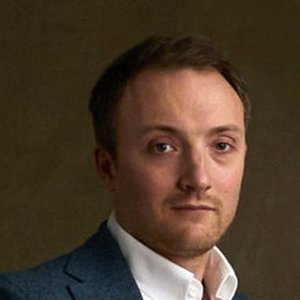
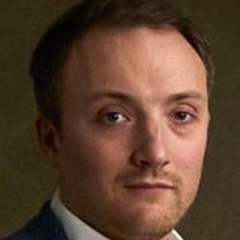
Livre v3 : couverture 3D, soulignements, photos recentrées, tag Amazon, plus de lien Squarespace

diff --git a/src/pages/Livre.tsx b/src/pages/Livre.tsx
@@ -1,17 +1,17 @@
 import { useState } from "react";
-import { A, PDF, useSeo, Reveal, CtaBand, Scribble } from "../lib";
-const AMZ = "https://www.amazon.fr/dp/2212572018", KINDLE = "https://www.amazon.fr/dp/B07PFLM9HD";
+import { A, PDF, useSeo, Reveal, CtaBand, Scribble, Hl, AMAZON as AMZ, KINDLE, amzRel } from "../lib";
+import { Book3D } from "../Book3D";
 const buy = [
-  { n: "Amazon", f: "Broché", u: AMZ }, { n: "Amazon", f: "Kindle", u: KINDLE },
+  { n: "Amazon", f: "Broché", u: AMZ, a: true }, { n: "Amazon", f: "Kindle", u: KINDLE, a: true },
   { n: "Fnac", f: "Broché", u: "https://www.fnac.com/a13185949/Onur-Karapinar-Petites-habitudes-grandes-reussites" },
   { n: "Decitre", f: "Broché", u: "https://www.decitre.fr/livres/petites-habitudes-grandes-reussites-9782212572018.html" },
   { n: "Éditions Eyrolles", f: "Broché", u: "https://www.editions-eyrolles.com/livre/petites-habitudes-grandes-reussites" },
   { n: "Audible", f: "Livre audio, 8 h 32", u: "https://www.audible.fr/pd/B08F5JK48R" },
 ];
 const recos = [
-  { n: "Matthieu Dardaillon", r: "entrepreneur, cofondateur de Ticket for Change", f: "matthieu-dardaillon", q: "Onur Karapinar nous offre un livre indispensable - complet, clair, prêt à l'emploi - pour prendre ou reprendre le pouvoir sur nos vies." },
-  { n: "Olivier Roland", r: "entrepreneur et auteur", f: "olivier-roland", q: "Remplacer les mauvaises habitudes par les bonnes est essentiel pour réussir dans la vie, personnellement et professionnellement. Ce livre est parfait pour cela." },
-  { n: "Benoît Wojtenka", r: "cofondateur de BonneGueule, préfacier", f: "benoit-wojtenka", q: "Changer ses habitudes, c'est changer sa vie. Et c'est ce qu'Onur va vous apprendre dans ce livre, un indispensable pour tous ceux qui veulent atteindre intelligemment leurs objectifs." },
+  { n: "Matthieu Dardaillon", r: "entrepreneur, cofondateur de Ticket for Change", f: "matthieu-dardaillon", q: "Onur Karapinar nous offre **un livre indispensable** - complet, clair, prêt à l'emploi - pour prendre ou reprendre le pouvoir sur nos vies." },
+  { n: "Olivier Roland", r: "entrepreneur et auteur", f: "olivier-roland", q: "Remplacer les mauvaises habitudes par les bonnes est essentiel pour réussir dans la vie, personnellement et professionnellement. **Ce livre est parfait pour cela.**" },
+  { n: "Benoît Wojtenka", r: "cofondateur de BonneGueule, préfacier", f: "benoit-wojtenka", q: "**Changer ses habitudes, c'est changer sa vie.** Et c'est ce qu'Onur va vous apprendre dans ce livre, un indispensable pour tous ceux qui veulent atteindre intelligemment leurs objectifs." },
 ];
 const learn = [
   ["Comprendre ton cerveau", "Pourquoi il crée des habitudes, la boucle des habitudes, et pourquoi compter sur la motivation ne marche pas."],
@@ -37,16 +37,16 @@ const parts = [
   ["Partie IV", "51 habitudes pour devenir la meilleure version de toi-même", ["14 habitudes productives", "11 habitudes santé", "18 habitudes de développement personnel", "8 habitudes sociales"]],
 ];
 const reviews = [
-  { a: "Agnès L.", d: "14 avril 2020", s: 5, q: "J'ai dévoré de A à Z le livre \"Petites habitudes, grandes réussites\" car il est très facile à lire, à comprendre et à mettre en pratique." },
-  { a: "Arnaud M", d: "4 août 2019", s: 5, q: "Ce livre n'est ni une histoire passionnante, ni une innovation extraordinaire. En revanche, je pense que c'est une mine d'or pour toute personne voulant améliorer sa vie." },
-  { a: "Veyrat Marine", d: "23 août 2019", s: 5, q: "Chaque habitude est présentée de manière très pédagogique, en exposant ses bienfaits et des conseils de mise en application immédiate." },
+  { a: "Agnès L.", d: "14 avril 2020", s: 5, q: "J'ai dévoré de A à Z le livre \"Petites habitudes, grandes réussites\" car il est **très facile à lire, à comprendre et à mettre en pratique**." },
+  { a: "Arnaud M", d: "4 août 2019", s: 5, q: "Ce livre n'est ni une histoire passionnante, ni une innovation extraordinaire. En revanche, je pense que c'est **une mine d'or** pour toute personne voulant améliorer sa vie." },
+  { a: "Veyrat Marine", d: "23 août 2019", s: 5, q: "Chaque habitude est présentée de manière très pédagogique, en exposant ses bienfaits et des **conseils de mise en application immédiate**." },
 ];
 const faq = [
   ["C'est pour qui ?", "Pour toi si tu veux prendre de bonnes habitudes, te défaire de celles qui te coûtent, ou si tu veux changer sans savoir par où commencer."],
   ["Faut-il le lire dans l'ordre ?", "Les trois premières parties posent la méthode, mieux vaut les lire d'abord. Les 51 habitudes de la partie IV se piochent ensuite selon tes envies."],
   ["Il y a de la théorie ?", "Un peu, juste ce qu'il faut. La première partie explique la science du comportement. Le reste est un manuel pratique."],
   ["Il existe en numérique et en audio ?", "Oui : broché, Kindle et livre audio (8 h 32, lu par Nicolas Djermag)."],
-  ["Je peux le feuilleter avant ?", "Oui, les 27 premières pages sont en accès libre, sans e-mail."],
+  ["Je peux le feuilleter avant ?", PDF ? "Oui, les 27 premières pages sont en accès libre, sans e-mail." : "Oui, avec la fonction « Feuilleter » de la page Amazon."],
 ];
 const Stars = ({ n = 4.5 }) => <span aria-hidden="true" className="text-terral">{"★★★★★".slice(0, Math.floor(n))}{n % 1 ? <span style={{ background: "linear-gradient(90deg,#D96A4E 50%,#E8E2D6 50%)", WebkitBackgroundClip: "text", color: "transparent" }}>★</span> : null}</span>;
 export default function Livre() {
@@ -55,18 +55,18 @@ export default function Livre() {
   const toBuy = () => document.getElementById("acheter")?.scrollIntoView({ behavior: "smooth" });
   return (<div className="pb-20 md:pb-0">
     <section className="mx-auto grid max-w-6xl items-center gap-10 px-5 py-14 md:grid-cols-[.7fr_1.3fr] md:py-20">
-      <Reveal><img src={`${A}/livre-couverture.jpg`} alt="Couverture du livre Petites habitudes, grandes réussites" width="288" height="420" className="mx-auto w-56 -rotate-2 rounded shadow-2xl md:w-72"/></Reveal>
+      <Reveal><Book3D src={`${A}/livre-couverture.jpg`}/></Reveal>
       <Reveal delay={100}><div className="flex items-center gap-2"><Stars/><span className="text-sm text-ink/70">4,5 sur 5, 364 évaluations Amazon</span></div>
         <h1 className="mt-3 text-4xl font-extrabold leading-tight tracking-tight md:text-5xl">Tu sais ce qu'il faudrait changer. Ce livre t'aide à le faire, <Scribble>enfin</Scribble>.</h1>
         <p className="mt-4 text-lg text-ink/80">51 habitudes concrètes et une méthode pour les installer, une petite étape à la fois. Pas de bain glacé, pas de réveil à 5 h obligatoire.</p>
-        <div className="mt-7 flex flex-wrap gap-3"><button onClick={toBuy} className="btn">Commander le livre</button><a href={PDF} className="btn-ghost">Lire les 27 premières pages</a></div>
+        <div className="mt-7 flex flex-wrap gap-3"><button onClick={toBuy} className="btn">Commander le livre</button><a href={PDF || AMZ} rel={PDF ? undefined : amzRel} className="btn-ghost">{PDF ? "Lire les 27 premières pages" : "Feuilleter le début"}</a></div>
         <p className="mt-3 text-sm text-ink/60">Eyrolles, 2019 · 310 pages · broché, Kindle et audio · préface de Benoît Wojtenka</p></Reveal>
     </section>
     <section className="border-y border-sable bg-white"><div className="mx-auto grid max-w-5xl grid-cols-2 gap-6 px-5 py-10 text-center md:grid-cols-4">
       {[["15 000+", "exemplaires vendus"], ["4,5 / 5", "sur 364 avis Amazon"], ["66 %", "d'avis 5 étoiles"], ["3 ans", "de recherche et d'écriture"]].map(([a, b], i) => <Reveal key={b} delay={i * 80}><div className="font-display text-3xl font-extrabold text-ink">{a}</div><div className="text-sm text-ink/70">{b}</div></Reveal>)}
     </div></section>
     <section className="mx-auto max-w-6xl px-5 py-20"><Reveal><div className="kicker">Ils l'ont lu avant toi</div><h2 className="h2 mt-3">Mot pour mot, en quatrième de couverture.</h2></Reveal>
-      <div className="mt-10 grid gap-6 md:grid-cols-3">{recos.map((r, i) => <Reveal key={r.n} delay={i * 100}><figure className="card h-full p-6"><blockquote>« {r.q} »</blockquote><figcaption className="mt-5 flex items-center gap-3"><img src={`${A}/reco-${r.f}.jpg`} alt={`Photo de ${r.n}`} width="48" height="48" loading="lazy" className="h-12 w-12 rounded-full object-cover"/><span className="text-sm"><b>{r.n}</b><br/><span className="text-ink/60">{r.r}</span></span></figcaption></figure></Reveal>)}</div>
+      <div className="mt-10 grid gap-6 md:grid-cols-3">{recos.map((r, i) => <Reveal key={r.n} delay={i * 100}><figure className="card h-full p-6"><blockquote>« <Hl t={r.q}/> »</blockquote><figcaption className="mt-5 flex items-center gap-3"><img src={`${A}/reco-${r.f}.jpg`} alt={`Photo de ${r.n}`} width="48" height="48" loading="lazy" className="h-12 w-12 rounded-full object-cover"/><span className="text-sm"><b>{r.n}</b><br/><span className="text-ink/60">{r.r}</span></span></figcaption></figure></Reveal>)}</div>
     </section>
     <section className="bg-pale"><div className="mx-auto max-w-3xl px-5 py-20"><Reveal><div className="kicker">Le vrai problème</div><h2 className="h2 mt-3">Le problème n'est pas ta motivation.</h2>
       <p className="mt-5 text-lg text-ink/85">Tu as déjà commencé une routine un lundi. Mercredi, elle avait disparu. Ce n'est pas un manque de volonté : ce sont tes stratégies qui ne marchent pas. Ce livre te donne celles qui marchent, et découpe chaque bonne habitude en un geste assez petit pour tenir dans une vraie journée.</p></Reveal></div></section>
@@ -79,23 +79,23 @@ export default function Livre() {
       <div className="mt-8 space-y-3">{parts.map(([k, t, items], i) => <div key={k as string} className="rounded-2xl border border-sable bg-white"><button aria-expanded={open === i} onClick={() => setOpen(open === i ? null : i)} className="flex min-h-[56px] w-full items-center justify-between gap-4 p-5 text-left"><span><span className="text-sm font-bold text-terra">{k}</span><br/><span className="font-bold">{t}</span></span><span aria-hidden="true" className="text-2xl text-terra">{open === i ? "−" : "+"}</span></button>
         {open === i && <ul className="space-y-2 px-5 pb-5 text-[15px] text-ink/80">{(items as string[]).map(x => <li key={x} className="flex gap-3"><span className="mt-2 h-1.5 w-1.5 shrink-0 rounded-full bg-terral"/>{x}</li>)}</ul>}</div>)}</div>
     </div></section>
-    <section className="mx-auto max-w-3xl px-5 py-20 text-center"><Reveal><div className="kicker">Gratuit, sans e-mail</div><h2 className="h2 mt-3">Lis les 27 premières pages.</h2>
+    <section className="mx-auto max-w-3xl px-5 py-20 text-center"><Reveal><div className="kicker">Gratuit, sans e-mail</div><h2 className="h2 mt-3">{PDF ? "Lis les 27 premières pages." : "Feuillette le début."}</h2>
       <p className="mt-4 text-ink/80">Pas envie d'acheter un livre sur la foi d'une page web ? Moi non plus. Feuillette le début. Si tu te surprends à souligner une phrase, tu sais ce qu'il te reste à faire.</p>
-      <a href={PDF} className="btn mt-7">Lire l'extrait (PDF)</a></Reveal></section>
+      <a href={PDF || AMZ} rel={PDF ? undefined : amzRel} className="btn mt-7">{PDF ? "Lire l'extrait (PDF)" : "Feuilleter sur Amazon"}</a></Reveal></section>
     <section className="bg-pale"><div className="mx-auto max-w-5xl px-5 py-20"><Reveal><div className="kicker">Avis Amazon.fr, achats vérifiés</div><h2 className="h2 mt-3">Ce qu'en disent les lecteurs.</h2></Reveal>
-      <div className="mt-8 grid gap-6 md:grid-cols-3">{reviews.map((r, i) => <Reveal key={r.a} delay={i * 100}><figure className="card h-full p-6"><Stars n={r.s}/><blockquote className="mt-3">« {r.q} »</blockquote><figcaption className="mt-4 text-sm text-ink/60"><b className="text-ink">{r.a}</b>, Amazon.fr, {r.d}</figcaption></figure></Reveal>)}</div>
+      <div className="mt-8 grid gap-6 md:grid-cols-3">{reviews.map((r, i) => <Reveal key={r.a} delay={i * 100}><figure className="card h-full p-6"><Stars n={r.s}/><blockquote className="mt-3">« <Hl t={r.q}/> »</blockquote><figcaption className="mt-4 text-sm text-ink/60"><b className="text-ink">{r.a}</b>, Amazon.fr, {r.d}</figcaption></figure></Reveal>)}</div>
       <a href={AMZ + "#customerReviews"} className="mt-6 inline-flex min-h-[44px] items-center font-bold text-terra underline underline-offset-4">Lire les 364 avis sur Amazon</a>
     </div></section>
     <section className="mx-auto grid max-w-5xl items-center gap-10 px-5 py-20 md:grid-cols-[.6fr_1.4fr]"><Reveal><img src={`${A}/portrait-studio.webp`} alt="Portrait d'Onur Karapinar" width="640" height="640" loading="lazy" className="mx-auto w-full max-w-[260px] rotate-2 rounded-3xl shadow-xl"/></Reveal>
       <Reveal delay={100}><div className="kicker">L'auteur</div><h2 className="h2 mt-3">Qui l'a écrit.</h2>
         <p className="mt-4 text-ink/85">Je m'appelle Onur. Avant d'écrire sur l'IA, j'ai écrit sur les habitudes. Ce livre est le fruit de trois ans de recherche et d'écriture, et de beaucoup de tests sur moi, ratés compris. Ce qui marchait tenait toujours en un geste minuscule, répété. Aujourd'hui, j'applique la même idée à l'IA dans ma newsletter.</p></Reveal></section>
     <section id="acheter" className="scroll-mt-20 bg-ink text-creme"><div className="mx-auto max-w-5xl px-5 py-20"><Reveal><div className="kicker !text-pale">Où l'acheter</div><h2 className="h2 mt-3">Choisis ton format.</h2></Reveal>
-      <div className="mt-8 grid gap-4 sm:grid-cols-2 lg:grid-cols-3">{buy.map(b => <a key={b.n + b.f} href={b.u} target="_blank" rel="noopener" className="flex min-h-[72px] items-center justify-between rounded-2xl border border-creme/20 p-5 transition hover:border-terral hover:bg-creme/5"><span><b>{b.n}</b><br/><span className="text-sm text-creme/70">{b.f}</span></span><span className="text-terral">→</span></a>)}</div>
-      <p className="mt-6 text-sm text-creme/60">Ou chez ton libraire : ISBN 978-2-212-57201-8.</p></div></section>
+      <div className="mt-8 grid gap-4 sm:grid-cols-2 lg:grid-cols-3">{buy.map((b: any) => <a key={b.n + b.f} href={b.u} target="_blank" rel={b.a ? amzRel : "noopener"} className="flex min-h-[72px] items-center justify-between rounded-2xl border border-creme/20 p-5 transition hover:border-terral hover:bg-creme/5"><span><b>{b.n}</b><br/><span className="text-sm text-creme/70">{b.f}</span></span><span className="text-terral">→</span></a>)}</div>
+      <p className="mt-6 text-sm text-creme/60">Ou chez ton libraire : ISBN 978-2-212-57201-8. Les liens Amazon sont affiliés : si tu achètes via ces liens, je touche une petite commission, sans surcoût pour toi.</p></div></section>
     <section className="mx-auto max-w-3xl px-5 py-20"><Reveal><div className="kicker">Questions fréquentes</div><h2 className="h2 mt-3">Avant de te lancer.</h2></Reveal>
       <div className="mt-8 divide-y divide-sable">{faq.map(([q, a]) => <details key={q} className="group py-4"><summary className="flex min-h-[44px] cursor-pointer list-none items-center justify-between font-bold">{q}<span aria-hidden="true" className="text-terra group-open:rotate-45 transition">+</span></summary><p className="mt-2 text-ink/80">{a}</p></details>)}</div></section>
     <section className="bg-pale"><div className="mx-auto max-w-3xl px-5 py-20 text-center"><Reveal><h2 className="h2">Un petit geste ce soir. Un grand changement dans six mois.</h2>
-      <div className="mt-8 flex flex-wrap justify-center gap-3"><button onClick={toBuy} className="btn">Commander le livre</button><a href={PDF} className="btn-ghost">Lire l'extrait</a></div></Reveal></div></section>
+      <div className="mt-8 flex flex-wrap justify-center gap-3"><button onClick={toBuy} className="btn">Commander le livre</button><a href={PDF || AMZ} rel={PDF ? undefined : amzRel} className="btn-ghost">{PDF ? "Lire l'extrait" : "Feuilleter le début"}</a></div></Reveal></div></section>
     <CtaBand title="Le livre parlait de petits gestes. L'IA, c'est pareil." text="Un guide de 10 minutes, une à deux fois par semaine. Gratuit."/>
     <div className="fixed inset-x-0 bottom-0 z-40 flex items-center justify-between gap-3 border-t border-sable bg-creme/95 px-4 py-3 backdrop-blur md:hidden"><span className="text-sm"><b>Le livre</b> · 4,5/5</span><button onClick={toBuy} className="btn !min-h-[44px] !px-5 !py-2 text-sm">Commander</button></div>
   </div>);

diff --git a/src/pages/Home.tsx b/src/pages/Home.tsx
@@ -1,5 +1,5 @@
 import { useState, useEffect } from "react"; import { Link } from "react-router-dom";
-import { Scribble, Arrow, A, SUB, AMAZON, PDF, useSeo, Reveal, SubscribeForm, Copy, Quote, Stats, CtaBand } from "../lib";
+import { Scribble, Arrow, A, SUB, AMAZON, PDF, amzRel, useSeo, Reveal, SubscribeForm, Copy, Quote, Stats, CtaBand } from "../lib";
 import { guides, GuideCard, fdate, img } from "../guides";
 import { tools, DISCLOSURE } from "../data/tools";
 import { ToolCard } from "./Outils";
@@ -83,12 +83,12 @@ export default function Home() {
     <section className="bg-pale"><div className="mx-auto max-w-6xl px-5 py-24">
       <Reveal><div className="kicker">Ce qu'en disent les lecteurs</div><h2 className="h2 mt-3">Recopié tel quel, fautes comprises.</h2></Reveal>
       <div className="mt-10 columns-1 gap-5 md:columns-2 lg:columns-3">
-        <Quote q="Depuis que je t'ai découvert (hier), j'ai créé 6 projets ! […] C'est un peu enivrant ! Mais passionnant quand on commence à piger." n="Le Hamac" src="Le fichier contexte Claude" img={`${H}/t-hamac.jpg`}/>
-        <Quote q="Je viens d'actualiser mon profil Linkedin avec Claude et tes prompts. Cela m'a demandé 1h30, mais cela vaut la peine." n="Marc Poskin" src="Le profil LinkedIn refait avec l'IA" img={`${H}/t-poskin.jpg`}/>
-        <Quote q="Je suis choqué par la quantité de valeur que tu viens de délivrer. Merci. Je m'abonne." n="Nirmoo" src="Claude Cowork, le guide complet"/>
-        <Quote q="Banger, très pédagogique & divertissant. J'enregistre précieusement ce guide ! Merci Onur :)" n="Pierre Cartier" src="Nano Banana 2" img={`${H}/t-pierre.jpg`}/>
-        <Quote q="Excellentissime, merci beaucoup à toi ! Tes partages sont inégalables et toujours généreux !" n="Laurent Berthelier" src="Le fichier contexte Claude" img={`${H}/t-laurent.jpg`}/>
-        <Quote q="Même si je n'utilise pas LinkedIn comme toi. Je prends ! Tu as gagné un abonné ! Un super article !" n="Yoann" src="Le profil LinkedIn refait avec l'IA" img={`${H}/t-yoann.jpg`}/>
+        <Quote q="Depuis que je t'ai découvert (hier), **j'ai créé 6 projets !** […] C'est un peu enivrant ! Mais passionnant quand on commence à piger." n="Le Hamac" src="Le fichier contexte Claude" img={`${H}/t-hamac.jpg`}/>
+        <Quote q="Je viens d'actualiser mon profil Linkedin avec Claude et tes prompts. Cela m'a demandé 1h30, mais **cela vaut la peine**." n="Marc Poskin" src="Le profil LinkedIn refait avec l'IA" img={`${H}/t-poskin.jpg`}/>
+        <Quote q="Je suis choqué par la **quantité de valeur** que tu viens de délivrer. Merci. Je m'abonne." n="Nirmoo" src="Claude Cowork, le guide complet"/>
+        <Quote q="Banger, **très pédagogique & divertissant**. J'enregistre précieusement ce guide ! Merci Onur :)" n="Pierre Cartier" src="Nano Banana 2" img={`${H}/t-pierre.jpg`}/>
+        <Quote q="Excellentissime, merci beaucoup à toi ! **Tes partages sont inégalables** et toujours généreux !" n="Laurent Berthelier" src="Le fichier contexte Claude" img={`${H}/t-laurent.jpg`}/>
+        <Quote q="Même si je n'utilise pas LinkedIn comme toi. Je prends ! **Tu as gagné un abonné !** Un super article !" n="Yoann" src="Le profil LinkedIn refait avec l'IA" img={`${H}/t-yoann.jpg`}/>
       </div>
       <div className="mt-6 text-center"><a href={SUB} className="inline-flex min-h-[44px] items-center font-bold text-terra underline underline-offset-4">Moi aussi, je veux le prochain guide →</a></div>
     </div></section>
@@ -104,8 +104,8 @@ export default function Home() {
       <Reveal><Link to="/livre"><img src={`${A}/livre-couverture.jpg`} alt="Couverture du livre Petites Habitudes, Grandes Réussites" loading="lazy" className="mx-auto w-48 -rotate-3 rounded shadow-2xl transition hover:rotate-0 md:w-60"/></Link></Reveal>
       <Reveal delay={100}><div className="kicker">Le livre</div><h2 className="h2 mt-3">Avant l'IA, j'ai écrit un livre sur les habitudes.</h2>
         <p className="mt-4 text-ink/80">51 pratiques, chacune découpée en petits gestes. Plus de 15 000 exemplaires vendus, 4,5 sur 5 sur Amazon (364 notes).</p>
-        <div className="mt-6 flex flex-wrap gap-3"><Link to="/livre" className="btn">Découvrir le livre</Link><a href={PDF} className="btn-ghost">Lire les 27 premières pages</a></div>
-        <a href={AMAZON} className="mt-3 inline-flex min-h-[44px] items-center text-sm text-ink/60 underline">Voir sur Amazon</a></Reveal>
+        <div className="mt-6 flex flex-wrap gap-3"><Link to="/livre" className="btn">Découvrir le livre</Link>{PDF && <a href={PDF} className="btn-ghost">Lire les 27 premières pages</a>}</div>
+        <a href={AMAZON} rel={amzRel} className="mt-3 inline-flex min-h-[44px] items-center text-sm text-ink/60 underline">Voir sur Amazon</a></Reveal>
     </div></section>
     <CtaBand title="Le prochain guide part bientôt. Il t'attend ?" text="Gratuit, une à deux fois par semaine. Promis, pas de spam, je n'ai pas le temps non plus."/>
   </>);

diff --git a/src/lib.tsx b/src/lib.tsx
@@ -1,8 +1,13 @@
 import { useEffect, useRef, useState, ReactNode } from "react";
 export const A = "/img";
 export const SUB = "https://onurkarapinar.substack.com/subscribe";
-export const AMAZON = "https://www.amazon.fr/dp/2212572018";
-export const PDF = "https://www.onurkarapinar.com/s/Petites_Habitudes_Grandes_Reussites___Extrait.pdf";
+export const AMAZON_TAG = "medium-ok-21";
+export const amz = (asin: string) => `https://www.amazon.fr/dp/${asin}` + (AMAZON_TAG ? `?tag=${AMAZON_TAG}` : "");
+export const amzRel = AMAZON_TAG ? "sponsored noopener" : "noopener";
+export const AMAZON = amz("2212572018");
+export const KINDLE = amz("B07PFLM9HD");
+// Extrait PDF : déposer le fichier dans public/ puis renseigner le chemin, ex. "/extrait-petites-habitudes.pdf"
+export const PDF = "";
 export function useSeo(title: string, desc: string) {
   useEffect(() => {
     document.title = title;
@@ -32,9 +37,10 @@ export function Copy({ text, label = "Copier le prompt" }: { text: string; label
   const [ok, setOk] = useState(false);
   return <button type="button" className="btn" onClick={async () => { try { await navigator.clipboard.writeText(text); } catch { const t = document.createElement("textarea"); t.value = text; document.body.appendChild(t); t.select(); document.execCommand("copy"); t.remove(); } setOk(true); setTimeout(() => setOk(false), 2000); }}>{ok ? "Copié !" : label}</button>;
 }
+export const Hl = ({ t }: { t: string }) => <>{t.split(/(\*\*[^*]+\*\*)/).map((p, i) => p.startsWith("**") ? <span key={i} className="underline decoration-terral decoration-[3px] underline-offset-4 [text-decoration-skip-ink:none]">{p.slice(2, -2)}</span> : p)}</>;
 export const Quote = ({ q, n, src, img }: { q: string; n: string; src: string; img?: string }) => (
   <figure className="card mb-5 break-inside-avoid p-7 hover:-rotate-[.6deg]">
-    <blockquote className="text-[15px] leading-relaxed">« {q} »</blockquote>
+    <blockquote className="text-[15px] leading-relaxed">« <Hl t={q}/> »</blockquote>
     <figcaption className="mt-4 flex items-center gap-3 text-sm">
       {img ? <img src={img} alt={`Photo de ${n}`} loading="lazy" width="40" height="40" className="h-10 w-10 rounded-full object-cover"/> : <span className="grid h-10 w-10 place-items-center rounded-full bg-pale font-bold">{n[0]}</span>}
       <span><b>{n}</b><br/><span className="text-ink/60">a commenté {src}</span></span>

diff --git a/src/pages/APropos.tsx b/src/pages/APropos.tsx
@@ -26,9 +26,9 @@ export default function APropos() {
     <section className="border-y border-sable bg-white/60"><div className="mx-auto max-w-6xl px-5 py-12"><Stats items={[["13 000", "lecteurs de la newsletter"], ["30 000", "abonnés LinkedIn"], ["15 000+", "livres vendus"], ["100+", "personnes coachées"], ["500+", "personnes formées"]]}/></div></section>
     <section className="mx-auto max-w-6xl px-5 py-20"><Reveal><h2 className="h2">Ce que les lecteurs m'ont répondu.</h2></Reveal>
       <div className="mt-8 columns-1 gap-5 md:columns-3">
-        <Quote q="Depuis que je t'ai découvert (hier), j'ai créé 6 projets ! […] C'est un peu enivrant ! Mais passionnant quand on commence à piger." n="Le Hamac" src="Le fichier contexte Claude" img={`${H}/t-hamac.jpg`}/>
-        <Quote q="Je suis choqué par la quantité de valeur que tu viens de délivrer. Merci. Je m'abonne." n="Nirmoo" src="Claude Cowork, le guide complet"/>
-        <Quote q="Banger, très pédagogique & divertissant. J'enregistre précieusement ce guide ! Merci Onur :)" n="Pierre Cartier" src="Nano Banana 2" img={`${H}/t-pierre.jpg`}/>
+        <Quote q="Depuis que je t'ai découvert (hier), **j'ai créé 6 projets !** […] C'est un peu enivrant ! Mais passionnant quand on commence à piger." n="Le Hamac" src="Le fichier contexte Claude" img={`${H}/t-hamac.jpg`}/>
+        <Quote q="Je suis choqué par la **quantité de valeur** que tu viens de délivrer. Merci. Je m'abonne." n="Nirmoo" src="Claude Cowork, le guide complet"/>
+        <Quote q="Banger, **très pédagogique & divertissant**. J'enregistre précieusement ce guide ! Merci Onur :)" n="Pierre Cartier" src="Nano Banana 2" img={`${H}/t-pierre.jpg`}/>
       </div>
       <Reveal className="mt-10 rounded-2xl bg-pale/50 p-8"><h3 className="text-xl font-bold">Une dernière chose</h3><p className="mt-2">Pose-moi ta question bête. Réponds à n'importe quelle édition, je lis tout. Les meilleures questions deviennent des éditions.</p></Reveal>
     </section>

diff --git a/src/index.css b/src/index.css
@@ -22,3 +22,12 @@ body{font-size:17px;line-height:1.65} p{text-wrap:pretty}
 .scribble path{stroke-dasharray:400;stroke-dashoffset:400;animation:draw 1.1s .4s ease forwards}
 @keyframes draw{to{stroke-dashoffset:0}}
 .card{background-image:none}
+
+.book3d{perspective:1400px}
+.book3d-inner{position:relative;width:100%;height:100%;transform-style:preserve-3d;transform:rotateY(-24deg) rotateX(4deg);transition:transform .6s cubic-bezier(.2,.7,.2,1);filter:drop-shadow(18px 28px 30px rgba(43,43,43,.28))}
+.book3d:hover .book3d-inner{transform:rotateY(-10deg) rotateX(2deg) translateY(-4px)}
+.book3d-front{position:absolute;inset:0;width:100%;height:100%;object-fit:cover;border-radius:2px 6px 6px 2px;transform:translateZ(14px);box-shadow:inset 4px 0 8px rgba(0,0,0,.25)}
+.book3d-front::after{content:""}
+.book3d-spine{position:absolute;top:0;left:0;width:28px;height:100%;background:linear-gradient(90deg,#1f1f1f,#2B2B2B 40%,#3a3a3a);transform:rotateY(-90deg) translateZ(14px) translateX(-14px);transform-origin:left}
+.book3d-pages{position:absolute;top:3px;right:0;width:26px;height:calc(100% - 6px);background:repeating-linear-gradient(90deg,#FDFBF7 0 2px,#E8E2D6 2px 3px);transform:rotateY(90deg) translateZ(-12px) translateX(13px);transform-origin:right}
+@media (prefers-reduced-motion:reduce){.book3d-inner{transition:none}.book3d:hover .book3d-inner{transform:rotateY(-24deg) rotateX(4deg)}}

diff --git a/src/pages/Mentions.tsx b/src/pages/Mentions.tsx
@@ -8,6 +8,6 @@ export default function Mentions() {
     <h2>Hébergement</h2><p>Cloudflare, Inc., 101 Townsend St, San Francisco, CA 94107, États-Unis (Cloudflare Pages).</p>
     <h2>Newsletter</h2><p>L'inscription passe par Substack, Inc. Ton adresse e-mail sert uniquement à t'envoyer la newsletter. Tu peux te désabonner à tout moment depuis le lien présent dans chaque e-mail.</p>
     <h2>Propriété intellectuelle</h2><p>Les textes, images et guides de ce site appartiennent à Onur Karapinar, sauf mention contraire. Les marques et logos cités appartiennent à leurs propriétaires.</p>
-    <h2>Liens affiliés</h2><p>Certains liens de la page Outils sont affiliés et signalés comme tels : si tu t'abonnes via ces liens, je peux toucher une commission, sans surcoût pour toi. Je ne recommande que des outils que j'utilise.</p>
+    <h2>Liens affiliés</h2><p>Certains liens sont affiliés et signalés comme tels : outils de la page Outils, et liens Amazon vers mon livre (programme Partenaires Amazon). Si tu achètes ou t'abonnes via ces liens, je peux toucher une commission, sans surcoût pour toi. Je ne recommande que des outils que j'utilise.</p>
   </section>;
 }

diff --git a/src/Book3D.tsx b/src/Book3D.tsx
@@ -1,0 +1,9 @@
+export function Book3D({ src }: { src: string }) {
+  return <div className="book3d mx-auto w-56 md:w-72" style={{ aspectRatio: "150/220" }}>
+    <div className="book3d-inner">
+      <img src={src} alt="Couverture du livre Petites habitudes, grandes réussites" width="288" height="422" fetchPriority="high" className="book3d-front"/>
+      <span aria-hidden="true" className="book3d-spine"/>
+      <span aria-hidden="true" className="book3d-pages"/>
+    </div>
+  </div>;
+}
